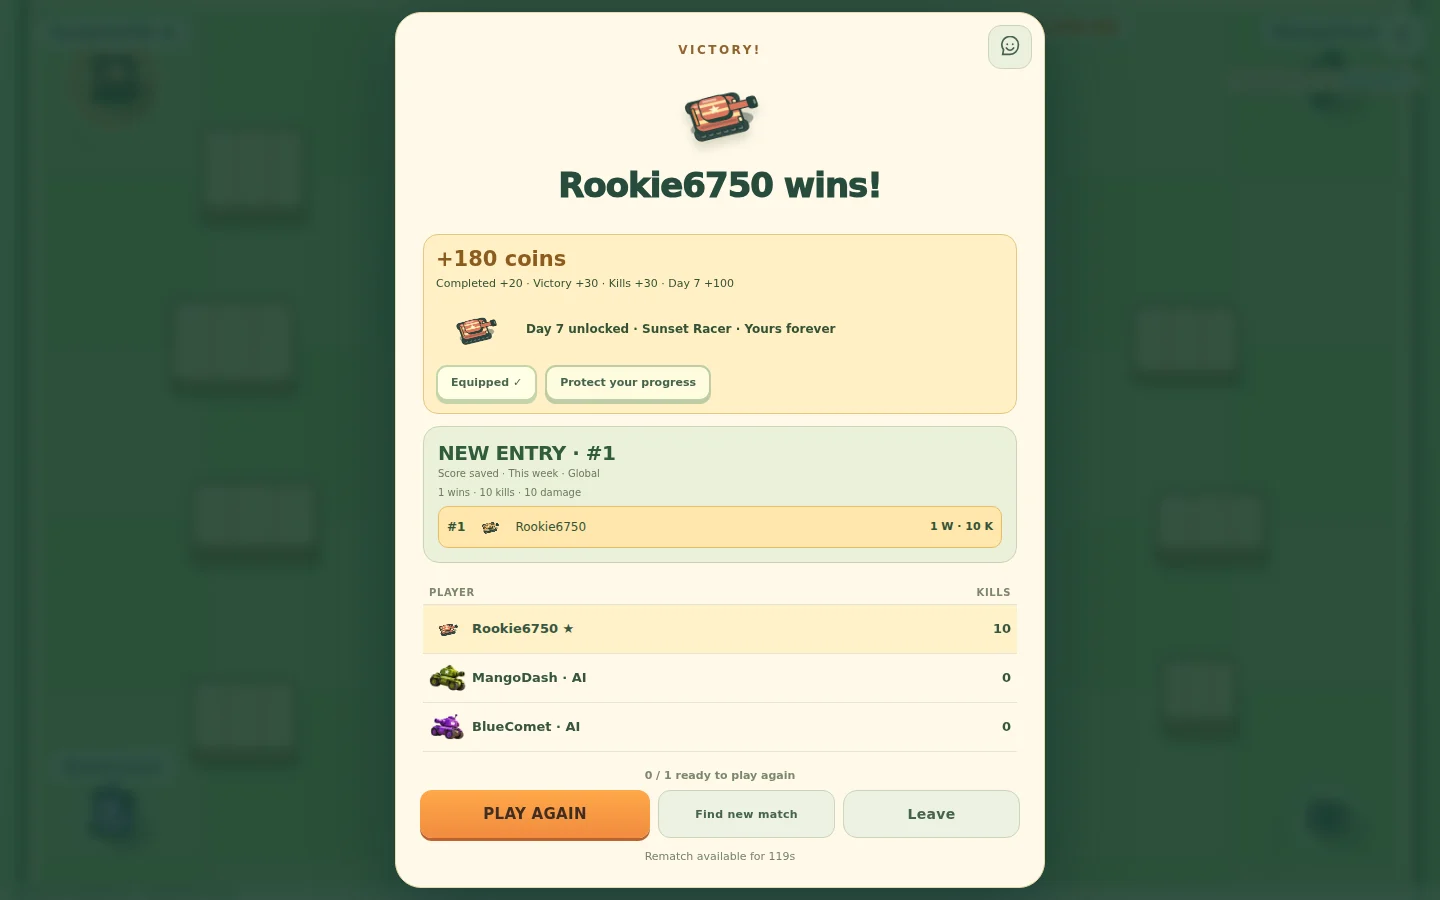
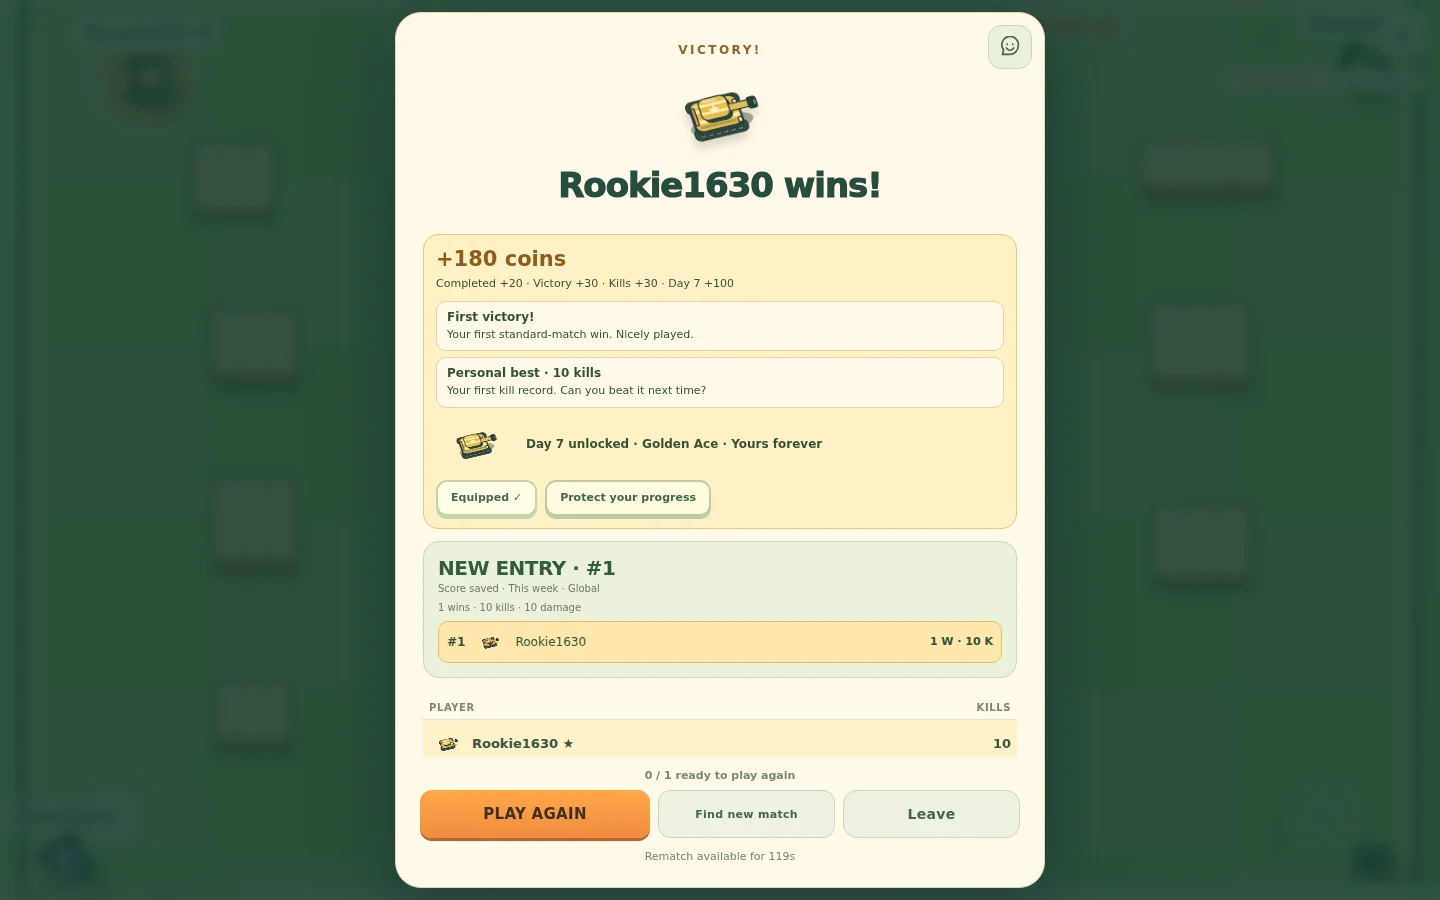
Keep first-match tips below the HUD and refresh achievement results tutorial

Changed region(s): [[0.2812, 0.3111, 0.7188, 0.84], [0.4688, 0.0933, 0.5312, 0.1556], [0.4688, 0.1867, 0.5312, 0.2178]]

diff --git a/index.html b/index.html
@@ -819,10 +819,10 @@ html,body{background:#193f35}.page{animation:none}.game,.stage{background-color:
 .game .garage-modal{height:100dvh;padding:max(12px,var(--safe-top)) max(12px,var(--safe-right)) max(12px,var(--safe-bottom)) max(12px,var(--safe-left));isolation:isolate}
 .garage-card>.tutorial-head{flex-shrink:0;position:relative;z-index:2;background:#fffbeb}.garage-head-actions{flex-shrink:0}#closeGarage{position:relative;z-index:3;min-width:64px;min-height:44px;touch-action:manipulation}
 @media(pointer:coarse) and (hover:none){.in-lobby .page{padding-top:max(14px,var(--safe-top));padding-right:max(14px,var(--safe-right));padding-bottom:max(20px,var(--safe-bottom));padding-left:max(14px,var(--safe-left))}}
-.match-coach{position:absolute;z-index:5;top:12px;left:50%;transform:translateX(-50%);width:min(330px,calc(100% - 24px));display:flex;align-items:center;gap:10px;padding:10px 12px;border:1px solid #e5cd85;border-radius:14px;background:#fff8dfed;color:#365743;box-shadow:0 4px 16px #16382c22;pointer-events:none;font:12px/1.4 var(--round-font)}.match-coach>div{flex:1;min-width:0}.match-coach strong,.match-coach span{display:block}.match-coach strong{font-size:13px}.match-coach button{flex-shrink:0;pointer-events:auto;border:0;background:#e7ebd7;color:#365743;border-radius:9px;min-width:44px;min-height:44px;touch-action:manipulation;font-size:11px}
+.match-coach{position:absolute;z-index:5;top:var(--coach-top,12px);left:50%;transform:translateX(-50%);width:min(330px,calc(100% - 24px));display:flex;align-items:center;gap:10px;padding:10px 12px;border:1px solid #e5cd85;border-radius:14px;background:#fff8dfed;color:#365743;box-shadow:0 4px 16px #16382c22;pointer-events:none;font:12px/1.4 var(--round-font)}.match-coach>div{flex:1;min-width:0}.match-coach strong,.match-coach span{display:block}.match-coach strong{font-size:13px}.match-coach button{flex-shrink:0;pointer-events:auto;border:0;background:#e7ebd7;color:#365743;border-radius:9px;min-width:44px;min-height:44px;touch-action:manipulation;font-size:11px}
 .game:not(.battle-field) .match-coach{display:none!important}
 .match-highlights{display:grid;gap:6px;margin:8px 0 0}.match-highlight{padding:8px 10px;border-radius:10px;background:#fff9e9;border:1px solid #e5d3a0}.match-highlight strong,.match-highlight span{display:block}.match-highlight strong{font-size:12px}.match-highlight span{font-size:11px;line-height:1.4;margin-top:3px}.garage-achievements{margin-top:16px}.garage-achievements h3{font-size:15px}.achievement-list{display:grid;gap:7px}.achievement-item{display:flex;align-items:center;gap:9px;border:1px solid #d7dfc5;border-radius:11px;padding:9px;background:#f2f3e4}.achievement-item.locked{background:transparent}.achievement-item .ui-icon{width:24px;height:24px;flex-shrink:0;color:#ad7a2d}.achievement-item.locked .ui-icon{color:#89957d}.achievement-item strong,.achievement-item small{display:block}.achievement-item strong{font-size:12px}.achievement-item small{font-size:10px;line-height:1.5;margin-top:3px;color:#607658}
-@media(max-height:450px){.match-coach{top:6px;padding:7px 10px;font-size:10px;width:min(310px,calc(100% - 24px))}.match-coach strong{font-size:11px}}
+@media(max-height:450px){.match-coach{top:var(--coach-top,6px);padding:7px 10px;font-size:10px;width:min(310px,calc(100% - 24px))}.match-coach strong{font-size:11px}}
 </style>
 </head>
 <body class="in-lobby">

diff --git a/onboarding.js b/onboarding.js
@@ -14,6 +14,8 @@ function updateCoach(data){
     matchCoach={round,step:0,x:me.x,y:me.y,moved:false,fired:false,at:data.time,done:coachSeen()};
   }
   const c=matchCoach;c.moved||=Math.hypot(me.x-c.x,me.y-c.y)>=36;c.fired||=me.shots>0;
+  const layout=[cssW,cssH,me.power||'',showPing,data.players.length].join('|');
+  if(c.layout!==layout){const header=$('arenaHeader').getBoundingClientRect?.(),stage=$('game').parentElement?.getBoundingClientRect?.();if(header&&stage)$('matchCoach').style.setProperty('--coach-top',Math.max(12,header.bottom-stage.top+8)+'px');c.layout=layout;}
   if(c.step===0&&c.moved){c.step=1;c.at=data.time;}
   if(c.step===1&&c.fired){c.step=data.settings?.bouncing===false?3:2;c.at=data.time;}
   if(c.step===2&&data.time-c.at>=6){c.step=3;c.at=data.time;}
